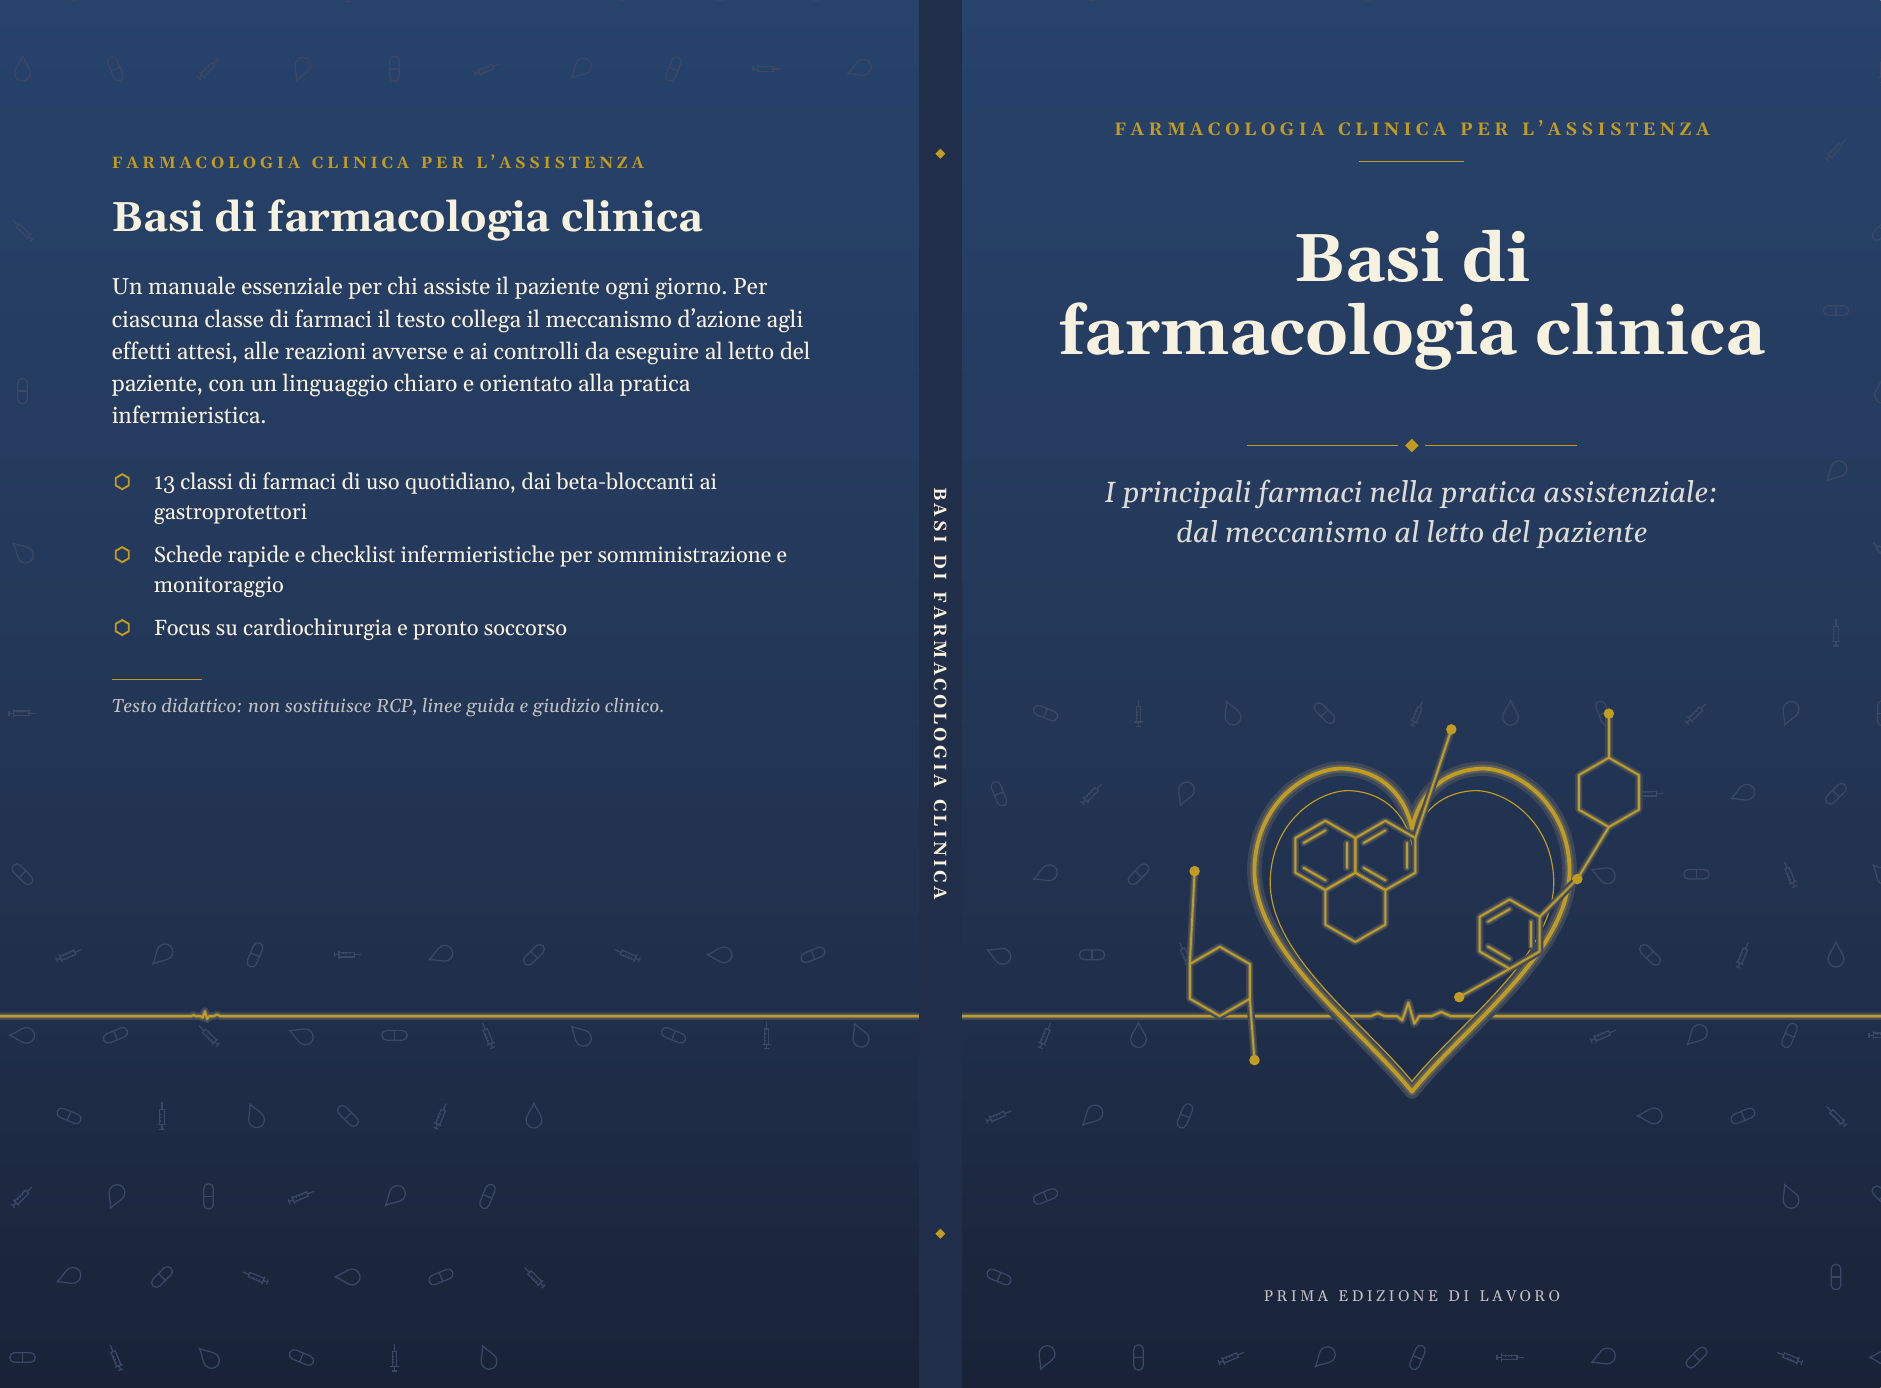
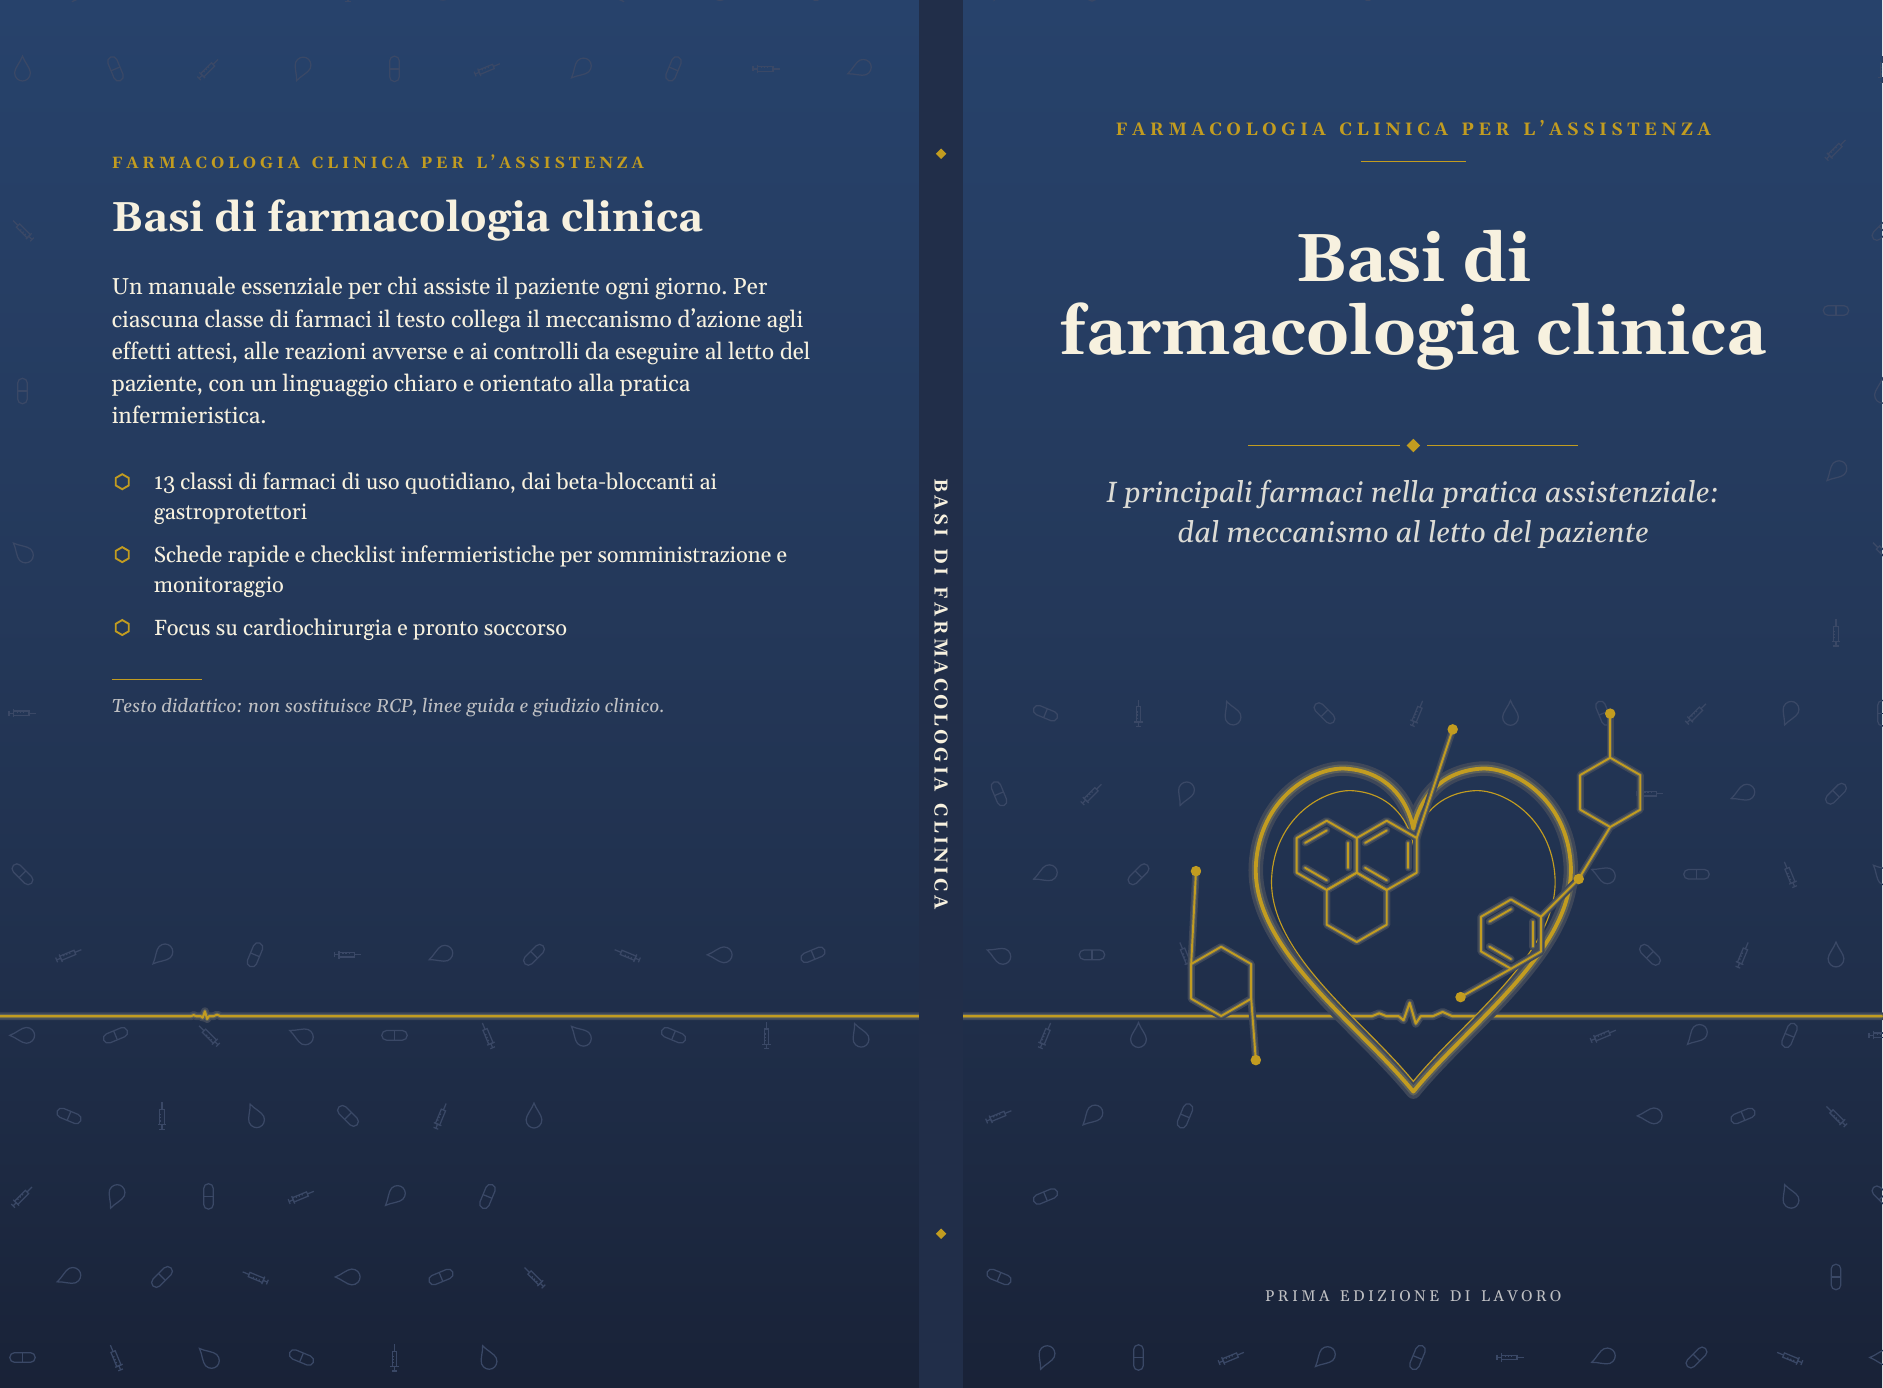
Copertina rigenerata per l'interno definitivo da 132 pagine (dorso 0,2973 in)
Claude-Session: https://claude.ai/code/session_01CJvPFVsxx93WoJetDSsAcn

diff --git a/libro/copertina/CHECKLIST_COPERTINA.md b/libro/copertina/CHECKLIST_COPERTINA.md
@@ -1,15 +1,15 @@
 # Checklist copertina KDP
 
-Riferita a `copertina_KDP.pdf`: variante «foto», **128 pagine, carta bianca, interno B/N, nessun autore** (vedi `build_info.json`).
+Riferita a `copertina_KDP.pdf`: variante «foto», **132 pagine (`libro/tomo/output/interno_KDP.pdf`, versione definitiva della revisione), carta bianca, interno B/N, nessun autore** (vedi `build_info.json`).
 Le fonti dei requisiti sono in `KDP_SPECIFICHE.md`. Verifiche eseguite con `pdfinfo`, `pdffonts`, `pdfimages`, `pypdf`, ispezione visiva delle anteprime e confronto pixel per pixel con l'illustrazione originale.
 
 | # | Voce | Requisito | Valore nel file | Esito |
 |---|---|---|---|---|
-| 1 | Dimensioni distesa | 0,125 + 6 + dorso + 6 + 0,125 × 9,25 in | **12,5383 × 9,25 in** (902,754 × 666 pt; 318,47 × 234,95 mm) | ✅ conforme alla formula — ⚠ da confrontare con il calcolatore KDP da browser |
-| 2 | Dorso e formula | pagine × 0,002252 in (B/N, carta bianca) | 128 × 0,002252 = **0,2883 in** (7,32 mm) | ✅ — ⚠ **provvisorio**: dipende dal numero di pagine finale |
+| 1 | Dimensioni distesa | 0,125 + 6 + dorso + 6 + 0,125 × 9,25 in | **12,5473 × 9,25 in** (903,403 × 666 pt; 318,70 × 234,95 mm) | ✅ conforme alla formula — ⚠ da confrontare con il calcolatore KDP da browser |
+| 2 | Dorso e formula | pagine × 0,002252 in (B/N, carta bianca) | 132 × 0,002252 = **0,2973 in** (7,55 mm) | ✅ — ⚠ va rigenerata se l'interno cambia ancora |
 | 3 | Abbondanze | 0,125 in su alto, basso, lati esterni | l'illustrazione copre l'intera pagina PDF | ✅ |
 | 4 | Zona di sicurezza | testo ≥ 0,125 in (A) / ≥ 0,25 in (B) dal rifilo | testo prima/quarta ≥ 0,45 in dal rifilo; formula pH e Cl limitate in automatico | ✅ |
-| 5 | Testo sul dorso | ≥ 79 pagine; ≥ 0,0625 in dai bordi del dorso | 128 pagine; corpo 10 pt in 0,163 in utili; caducei larghi 0,163 in | ✅ |
+| 5 | Testo sul dorso | ≥ 79 pagine; ≥ 0,0625 in dai bordi del dorso | 132 pagine; corpo 10 pt in 0,172 in utili; caducei larghi 0,17 in | ✅ |
 | 6 | Verso del testo sul dorso | dall'alto verso il basso | ruotato −90° | ✅ |
 | 7 | Tolleranza piega 0,0625 in | nessun testo a cavallo delle pieghe | testo e caducei centrati nel dorso; fondo continuo ai lati | ✅ |
 | 8 | Area barcode libera | 2 × 1,2 in, ≥ 0,25 in da dorso e rifilo, niente testo/immagini sopra | x 3,875–5,875 in, y 0,375–1,575 in: solo fondo navy, nessun testo né oggetto; la formula pH termina ≥ 0,3 in prima | ✅ |
@@ -27,7 +27,7 @@ Le fonti dei requisiti sono in `KDP_SPECIFICHE.md`. Verifiche eseguite con `pdfi
 
 ## Controlli da fare al momento del caricamento
 
-- [ ] Numero di pagine **definitivo** dell'interno e rigenerazione con `--pagine N`.
+- [x] Numero di pagine dell'interno definitivo: **132** (`pdfinfo libro/tomo/output/interno_KDP.pdf`); copertina rigenerata con `--pagine 132`. Ripetere se l'interno cambia.
 - [ ] Confronto di `build_info.json` con il **Cover Calculator** KDP.
 - [ ] Nel previewer KDP: barcode nell'area libera, nessun avviso su testo fuori dalla zona sicura o sul dorso.
 - [ ] **Dichiarazione sui contenuti generati con IA**: nel flusso di pubblicazione KDP chiede se testi o immagini sono generati con IA. L'illustrazione di copertina lo è, quindi va dichiarata.

diff --git a/libro/copertina/README.md b/libro/copertina/README.md
@@ -39,8 +39,8 @@ Requisiti: Python 3, `reportlab`, `numpy`, `Pillow`, `opencv-python-headless` (s
 ## Rigenerare quando cambia il numero di pagine
 
 ```bash
-pdfinfo ../tomo/output/tomo_bozza.pdf | grep Pages     # numero definitivo
-python3 build_copertina_foto.py --pagine 136           # ricalcola dorso, larghezza, barcode
+pdfinfo ../tomo/output/interno_KDP.pdf | grep Pages    # oggi: 132
+python3 build_copertina_foto.py --pagine 132           # ricalcola dorso, larghezza, barcode
 ```
 
 Lo stadio A **non** va rieseguito: non dipende dal numero di pagine. Dopo la rigenerazione:
@@ -49,7 +49,7 @@ Lo stadio A **non** va rieseguito: non dipende dal numero di pagine. Dopo la rig
 2. guarda `copertina_anteprima.png`;
 3. fai commit di PDF, PNG e `build_info.json`.
 
-Esempio: passando da 128 a 136 pagine, il dorso va da 0,2883 a 0,3063 in e la larghezza da 12,5383 a 12,5563 in. **Una copertina generata per un numero di pagine diverso da quello dell'interno viene respinta da KDP.**
+Esempio: con 132 pagine il dorso è 0,2973 in e la larghezza 12,5473 in; passando a 140 pagine diventerebbero 0,3153 in e 12,5653 in. **Una copertina generata per un numero di pagine diverso da quello dell'interno viene respinta da KDP.**
 
 Con meno di ~75 pagine il dorso diventa più stretto della giunzione tra le due metà. Lo script avvisa; in quel caso va rivisto il taglio (`SPLIT`).
 
@@ -58,7 +58,7 @@ Opzioni: `--carta crema` (0,0025 in/pagina), `--colore rgb` solo per prove a sch
 ## Aggiungere l'autore
 
 ```bash
-python3 build_copertina_foto.py --pagine 128 --autore "Nome Cognome"
+python3 build_copertina_foto.py --pagine 132 --autore "Nome Cognome"
 ```
 
 Il nome compare in maiuscolo spaziato in basso sulla prima, sopra «Prima edizione di lavoro», e sul dorso nella metà inferiore, in avorio.
